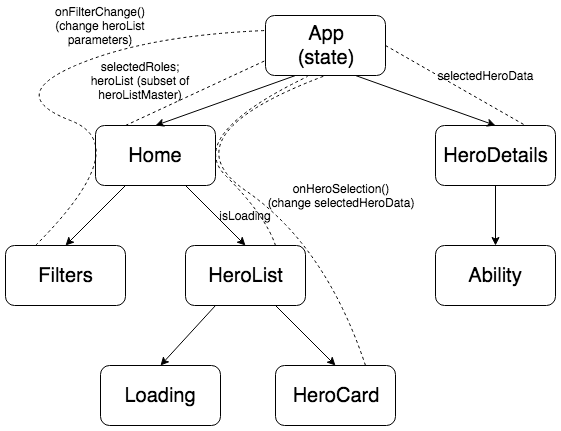
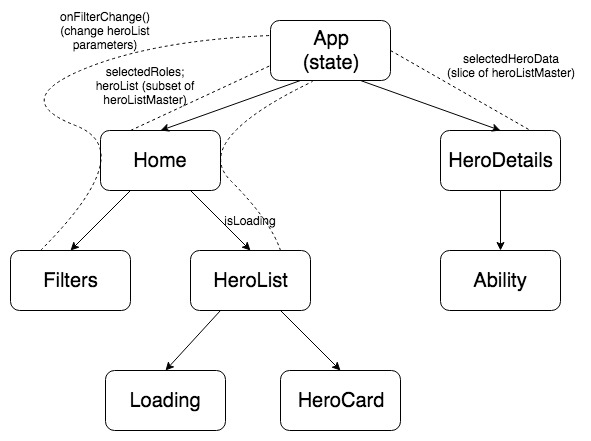
refactor selectedHeroData; remove related functions

diff --git a/src/components/App.js b/src/components/App.js
@@ -16,7 +16,6 @@ class App extends Component {
       selectedRoles: [],
       isLoading: false
     };
-    this.handleHeroSelection = this.handleHeroSelection.bind(this);
     this.handleFilterChange = this.handleFilterChange.bind(this);
   }
 
@@ -28,11 +27,6 @@ class App extends Component {
         heroListMaster: response.data,
         isLoading: false,
       }))
-  }
-
-  handleHeroSelection(clickedHero) {
-    let newSelectedHeroData = this.state.heroListMaster.filter(hero => hero.name === clickedHero)[0];
-    this.setState({selectedHeroData: newSelectedHeroData});
   }
 
   handleFilterChange(clickedRole) {
@@ -61,7 +55,7 @@ class App extends Component {
             />}
           />
           <Route path="/heroes/:hero" render={(props) =>
-            <HeroDetails {...props} selectedHeroData={this.state.selectedHeroData} />}
+            <HeroDetails {...props} selectedHeroData={this.state.heroListMaster.filter(h => h.name === props.match.params.hero)[0]} />}
           />
           <Route component={Error404} />
         </Switch>

diff --git a/src/components/HeroCard.js b/src/components/HeroCard.js
@@ -19,13 +19,9 @@ function HeroCard(props) {
     "Multiclass": Multiclass
   }
 
-  function handleHeroSelection() {
-    props.onHeroSelection(props.name);
-  }
-
   return (
     <div>
-      <Link to={`/heroes/${props.name}`} onClick={handleHeroSelection}>
+      <Link to={`/heroes/${props.name}`} >
         <div className="hero-card-round" style={{backgroundImage: `url(${props.iconURL})`}}>
             <img src={roleIcons[props.role]} className="role-icon" alt={props.name} />
         </div>
@@ -39,8 +35,7 @@ function HeroCard(props) {
 HeroCard.propTypes = {
     name: PropTypes.string.isRequired,
     role: PropTypes.string.isRequired,
-    iconURL: PropTypes.string,
-    onHeroSelection: PropTypes.func.isRequired
+    iconURL: PropTypes.string
 }
 
 export default HeroCard;

diff --git a/src/components/HeroDetails.js b/src/components/HeroDetails.js
@@ -5,6 +5,8 @@ import '../css/HeroDetails.css';
 
 function HeroDetails(props) {
 
+  window.scrollTo(0,0);
+
   const primaryHotkeys = ["Q", "W", "E"];
   const bonusHotkeys = ["1", "2", "3", "4", "5", "6"];
 
@@ -13,6 +15,7 @@ function HeroDetails(props) {
       <img
         className="hero-image"
         src={Object.values(props.selectedHeroData.icon_url)[0]}
+        alt={props.selectedHeroData.name}
       />
       <h1>{props.selectedHeroData.name}</h1>
       <h2>{props.selectedHeroData.type} {props.selectedHeroData.role}</h2>

diff --git a/src/components/HeroList.js b/src/components/HeroList.js
@@ -25,7 +25,6 @@ function HeroList(props) {
           name = {hero.name}
           role = {hero.role}
           iconURL = {Object.values(hero.icon_url)[0]}
-          onHeroSelection = {props.onHeroSelection}
           key = {hero.attribute_id}
         />
       )}
@@ -36,8 +35,7 @@ function HeroList(props) {
 
 HeroList.propTypes = {
   heroList: PropTypes.array,
-  isLoading: PropTypes.bool,
-  onHeroSelection: PropTypes.func.isRequired
+  isLoading: PropTypes.bool
 }
 
 export default HeroList;

diff --git a/src/components/Home.js b/src/components/Home.js
@@ -13,7 +13,6 @@ function Home(props) {
       <HeroList
         heroList={props.heroList}
         isLoading={props.isLoading}
-        onHeroSelection={props.onHeroSelection}
       />
     </div>
   );
@@ -24,7 +23,6 @@ Home.propTypes = {
   heroList: PropTypes.array.isRequired,
   selectedRoles: PropTypes.array.isRequired,
   isLoading: PropTypes.bool.isRequired,
-  onHeroSelection: PropTypes.func.isRequired,
   onFilterChange: PropTypes.func.isRequired
 }
 

diff --git a/README.md b/README.md
@@ -6,7 +6,7 @@ View a live demo at [heroes-interface.netlify.com](https://heroes-interface.netl
 
 ## Structure
 
-Data for all heroes is gathered from HotsAPI on app load. Visible heroes on the home page are a a subset of this data, dependent on the selection of filters.
+Data for all heroes is gathered from [HotsAPI](https://hotsapi.net/) on app load. Visible heroes on the home page are a a subset of this data, dependent on the selection of filters.
 
 Component structure and data flow is as follows:
 ![alt text](./src/img/appflow.png)
@@ -39,7 +39,7 @@ If you encounter any bugs or would like to make suggestions regarding this proje
 
 • Certain data is currently missing from the data set, including images for recently-released heroes as well as all ability icon images.
 
-• Ability display is inelegant for the select few heroes with more than one set of abilities bound to the Q, W, and E hotkeys.
+• Ability display is inelegant for the select few heroes with more than one set of abilities bound to the Q, W, and E hotkeys (e.g. Valeera's visible vs. stealthed states).
 
 ### License
 
